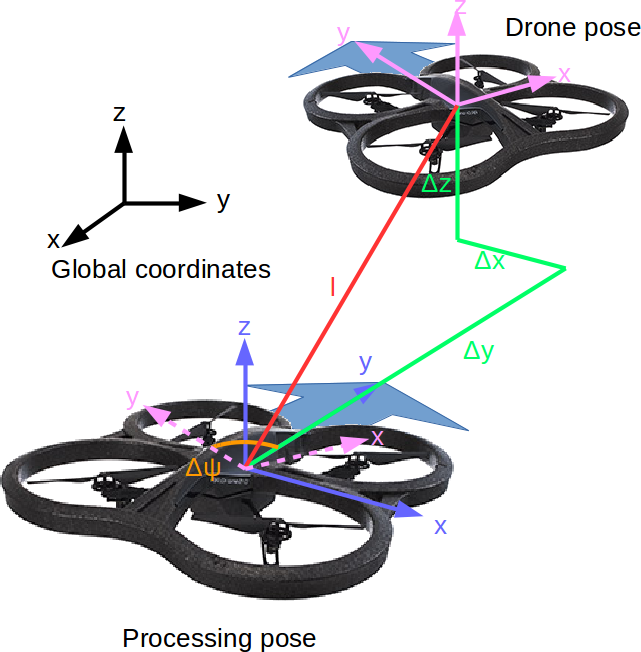
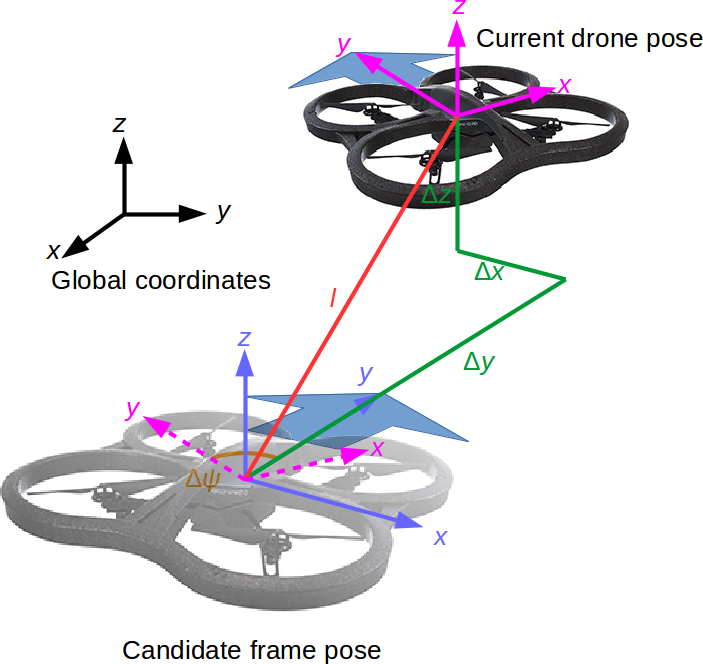
Snapshot. Still need contents, lit review, shorter videos.

diff --git a/spirit_defense.html b/spirit_defense.html
@@ -6,7 +6,7 @@
 	<meta name="author" content="Jean Nassar (Masasin)">
         <title>SPIRIT Defense</title>
         <link rel="stylesheet" href="css/reveal.css">
-        <link rel="stylesheet" href="css/theme/simple.css" id="theme">
+        <link rel="stylesheet" href="css/theme/night.css" id="theme">
         <!-- For syntax highlighting -->
         <link rel="stylesheet" href="lib/css/zenburn.css">
 

diff --git a/md/spirit_defense.md b/md/spirit_defense.md
@@ -1,6 +1,7 @@
 ### A UAV Teleoperation System Using Subimposed Past Image Records
-#### (過去画像を用いた飛行ロボットの遠隔操作手法)
-### Jean Nassar
+#### （過去画像を用いた飛行ロボットの遠隔操作手法）
+
+#### Jean Nassar
 Mechatronics Lab, Kyoto University
 
 February 16, 2017
@@ -14,13 +15,18 @@ February 16, 2017
 - Usually at least one camera as payload
 - Usually controlled by:
   - line-of-sight
-  - first-person view (FPV) <!-- .element: class="fragment highlight-red" -->
+  - Onboard camera <!-- .element: class="fragment highlight-blue" -->
 -v-
-## Problems (FPV)
+## Problems (onboard)
 - No knowledge of vehicle boundaries
 - Degradation of signal
   - long distance to drone
-  - in bad environments
+  - in bad communication environments
+    <ul class="fragment">
+      <li>thick concrete or metal</li>
+      <li>nuclear power plants</li>
+      <li>debris in disaster areas</li>
+    </ul>
 - Recipe for disaster<!-- .element: class="fragment" -->
 
 Note: Some examples:
@@ -39,11 +45,63 @@ Note: Some examples:
 # Proposed Solution
 -v-
 ## What is SPIRIT?
+<table height="100%">
+<img src="media/spirit_defense/spirit_summary.png" width=400 style="background-color:white;">
+
+- Store frames obtained from normal operation
+- Superimpose drone CG model onto stored image
+
+Note:
 - A novel UAV teleoperation interface
 - Designed to increase situational awareness
   - Operator can see boundaries of drone
-- Store frames obtained from normal operation
-- Superimpose drone CG model onto stored image
+-v-
+## Position comparison
+<table height="100%">
+  <tr>
+    <td style="vertical-align:top">
+      <img src="media/spirit_defense/drones_ref.png" width=400/><br/>
+      <small>$l_0$: reference distance</small><br/>
+      <small>$D$: with respect to drone
+    </td>
+    <td style="vertical-align:top">
+      <ul>
+	<li class="fragment">closeness to centre: $\sqrt{\Delta x_D^2 + \Delta z_D^2}/{l_0}$</li>
+	<li class="fragment">difference in yaw: $\Delta \psi_D^2$</li>
+	<li class="fragment">distance: $((l_D - l_0)/l_0)^2$</li>
+      </ul>
+    </td>
+  </tr>
+</table>
+-v-
+## Frame comparison
+<table height="100%">
+  <tr>
+    <td style="vertical-align:top">
+      <img src="media/spirit_defense/frames_ref.png" width=400/><br/>
+      <small>$l_0$: reference distance</small><br/>
+      <small>$F$: with respect to frame
+    </td>
+    <td style="vertical-align:top">
+      <ul>
+	<li class="fragment">difference in yaw: $\Delta \psi_F^2$</li>
+	<li class="fragment">distance: $l_F/l_0$</li>
+      </ul>
+    </td>
+  </tr>
+</table>
+-v-
+## Evaluation function
+$E(f) =  k_1\sqrt{\Delta x_D^2 + \Delta z_D^2}/{l_0} $
+
+  $+ k_2\Delta \psi_D^2  + k_3\left(\left(l_D - l_0\right)/l_0\right)^2$
+
+  $+ k_4\Delta \psi_F^2 + k_5l_F/l_0$
+
+Select $\underset{f}{\arg\min}\left(E\left(f\right)\right); f \in\,$frame buffer
+
+-s-
+# Making of
 -v-
 ## Components
 - ROS Kinetic in a Docker container
@@ -55,7 +113,7 @@ Note: Some examples:
 - PS3 controller
 -v-
 ## Overview
-<img src="media/spirit_defense/flowchart.png" width=400 alt="Flowchart">
+<img src="media/spirit_defense/flowchart.png" width=400/>
 
 Note:
 - Operator sends commands to AR.Drone
@@ -64,17 +122,6 @@ Note:
 - Associate each frame with its pose
 - Store all frames in chronological array (actually a deque)
 - With each pose, select best frame and overlay
--v-
-## Variables
-<img src="media/spirit_defense/drones_ref.png" width=400 alt="Variables">
--v-
-## Evaluation function
-- closeness to centre: $\sqrt{\Delta x^2 + \Delta z^2}/{l_0}$ <!-- .element: class="fragment" -->
-- difference in yaw: $\Delta \psi^2$ <!-- .element: class="fragment" -->
-- difference in distance: $((l - l_0)/l_0)^2$ <!-- .element: class="fragment" -->
-- frame similarity: <!-- .element: class="fragment" -->
-  - yaw: $\Delta \psi^2$
-  - distance: $l/l_0$
 
 -s-
 # Experiment
@@ -82,10 +129,10 @@ Note:
 ## Procedure
 <table height="100%">
   <tr>
-    <td valign="middle">
+    <td style="vertical-align:top">
       <img src="media/spirit_defense/drone_long_target.jpg" width=400/>
     </td>
-    <td>
+    <td style="vertical-align:top">
       <ul>
 	<li>Fly drone to target using either:
 	  <ul>
@@ -129,7 +176,7 @@ Note:
 -v-
 ## Credibility Interval (CI)
 - Significance at 95%
-- <span class="fragment highlight-blue">Significant</span> or <span class="fragment highlight-red">non-significant</span>
+- <span class="fragment highlight-green">Significant</span> or <span class="fragment highlight-red">non-significant</span>
 -v-
 ## Effect size (Hedges's $g$)
 
@@ -153,7 +200,7 @@ Note:
 ## Accuracy
 ![](/media/spirit_defense/rms.png)
 
-+39.8% (CI=98.1%, $g$=1.053) <!-- .element: class="fragment highlight-blue" -->
++39.8% (CI=98.1%, $g$=1.053) <!-- .element: class="fragment highlight-green" -->
 -v-
 ## Duration
 ![](/media/spirit_defense/duration.png)
@@ -163,7 +210,7 @@ Note:
 ## NASA-TLX
 ![](/media/spirit_defense/tlx_results.png)
 
-$-$37.5% (CI=97.6%, $g$=$-$0.978) <!-- .element: class="fragment highlight-blue" -->
+$-$37.5% (CI=97.6%, $g$=$-$0.978) <!-- .element: class="fragment highlight-green" -->
 -v-
 ## NASA-TLX
 ![](/media/spirit_defense/tlx_components.png)
@@ -171,7 +218,7 @@ $-$37.5% (CI=97.6%, $g$=$-$0.978) <!-- .element: class="fragment highlight-blue"
 ## Survey
 ![](/media/spirit_defense/survey_results.png)
 
-+35.7% (CI=98.8%, $g$=1.304) <!-- .element: class="fragment highlight-blue" -->
++35.7% (CI=98.8%, $g$=1.304) <!-- .element: class="fragment highlight-green" -->
 -v-
 ## Survey
 ![](/media/spirit_defense/survey_components.png)
